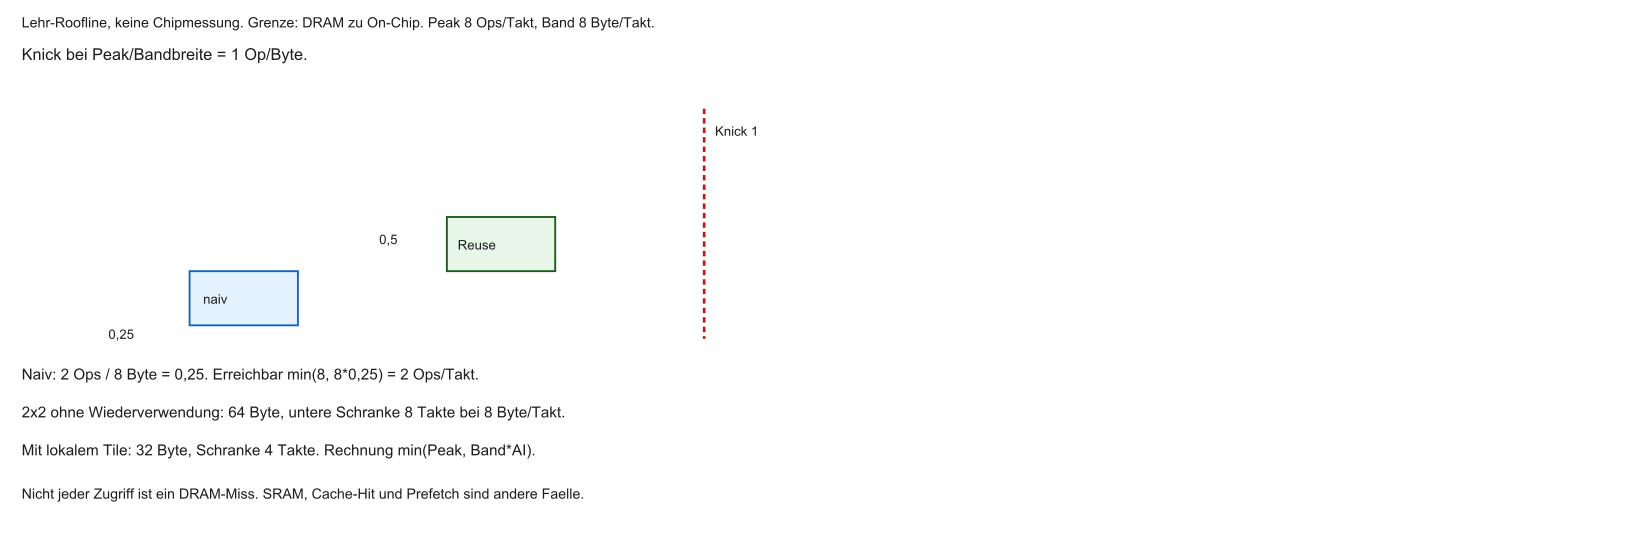
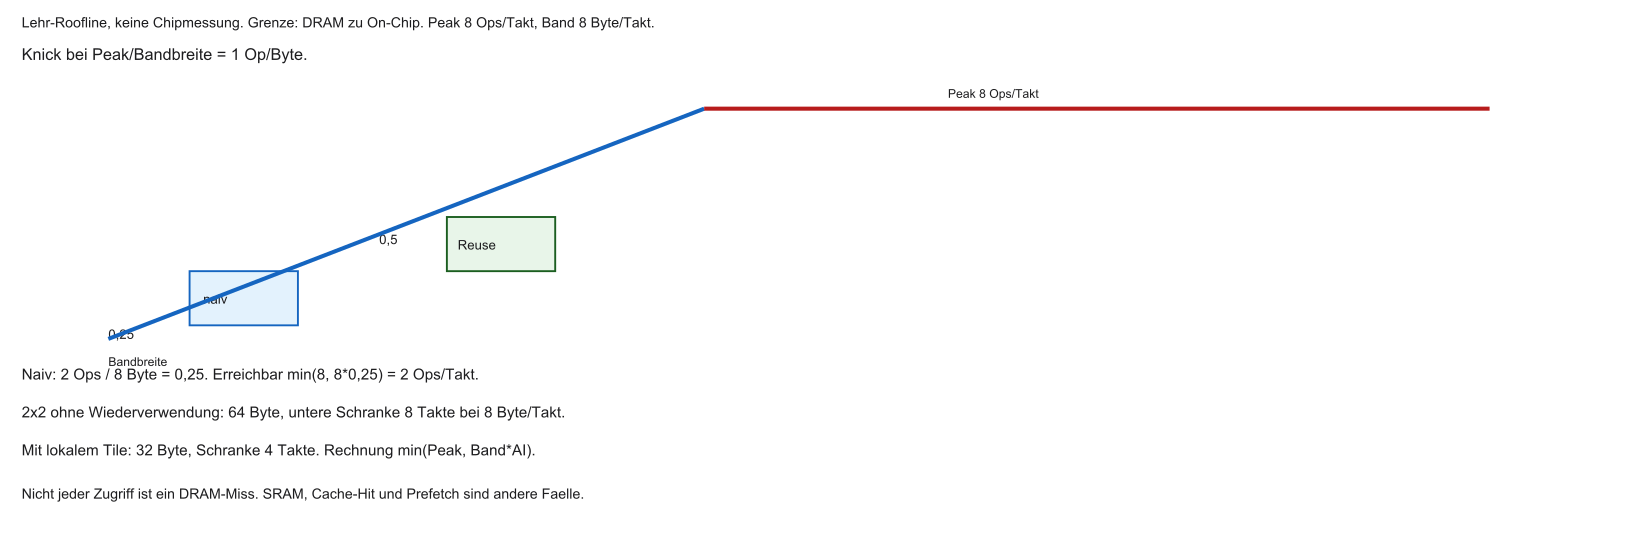
Korrigiere PLIC-Claim, System-Tick, I2C-Fehlerpfade und die RVV-Restregel.

diff --git a/assets/figures/07_moderne_cpu_architekturen/build_figures.py b/assets/figures/07_moderne_cpu_architekturen/build_figures.py
@@ -330,6 +330,24 @@ def fig_j():
     for x, y, name, taken in states:
         p.append(R(x, y, 140, 44, C[2] if taken else ERR))
         p.append(T(x + 70, y + 28, name, 16, C[2] if taken else ERR, "700", "middle"))
+    p.append(L(180, 92, 300, 92, C[2], 2))
+    p.append(L(440, 92, 560, 92, C[2], 2))
+    p.append(L(700, 92, 820, 92, C[2], 2))
+    p.append(T(210, 84, "T", 12, C[2]))
+    p.append(T(470, 84, "T", 12, C[2]))
+    p.append(T(730, 84, "T", 12, C[2]))
+    p.append(L(820, 110, 700, 110, ERR, 2))
+    p.append(L(560, 110, 440, 110, ERR, 2))
+    p.append(L(300, 110, 180, 110, ERR, 2))
+    p.append(T(730, 128, "NT", 12, ERR))
+    p.append(T(470, 128, "NT", 12, ERR))
+    p.append(T(210, 128, "NT", 12, ERR))
+    p.append(L(40, 48, 40, 70, ERR, 2))
+    p.append(L(180, 48, 40, 48, ERR, 2))
+    p.append(T(70, 44, "NT", 12, ERR))
+    p.append(L(860, 48, 1000, 48, C[2], 2))
+    p.append(L(1000, 48, 1000, 70, C[2], 2))
+    p.append(T(900, 44, "T", 12, C[2]))
     p.append(T(16, 150, "T: 00->01, 01->10, 10->11, 11->11. NT: 11->10, 10->01, 01->00, 00->00.", 15))
     p.append(T(16, 176, "Aus 11 aendert ein NT nur nach 10, Vorhersage bleibt T. Aus 10 reicht ein NT fuer NT.", 14, C[1]))
     rows = predictor_rows()

diff --git a/assets/figures/08_ki_beschleuniger_edge_ai/build_figures.py b/assets/figures/08_ki_beschleuniger_edge_ai/build_figures.py
@@ -100,8 +100,10 @@ def fig_c():
     p.append(T(280, 180, "0,5", 13, ACC))
     p.append(R(330, 160, 80, 40, ACC, "#E8F5E9"))
     p.append(T(338, 184, "Reuse", 13, ACC))
-    p.append(L(520, 80, 520, 250, ERR, 2, "4 3"))
-    p.append(T(528, 100, "Knick 1", 13, ERR))
+    p.append(L(80, 250, 520, 80, ACT, 3))
+    p.append(L(520, 80, 1100, 80, ERR, 3))
+    p.append(T(80, 270, "Bandbreite", 12, ACT))
+    p.append(T(700, 72, "Peak 8 Ops/Takt", 12, ERR))
     p.append(T(16, 280, "Naiv: 2 Ops / 8 Byte = 0,25. Erreichbar min(8, 8*0,25) = 2 Ops/Takt.", 15))
     p.append(T(16, 308, "2x2 ohne Wiederverwendung: 64 Byte, untere Schranke 8 Takte bei 8 Byte/Takt.", 15))
     p.append(T(16, 336, "Mit lokalem Tile: 32 Byte, Schranke 4 Takte. Rechnung min(Peak, Band*AI).", 15, ACC))
